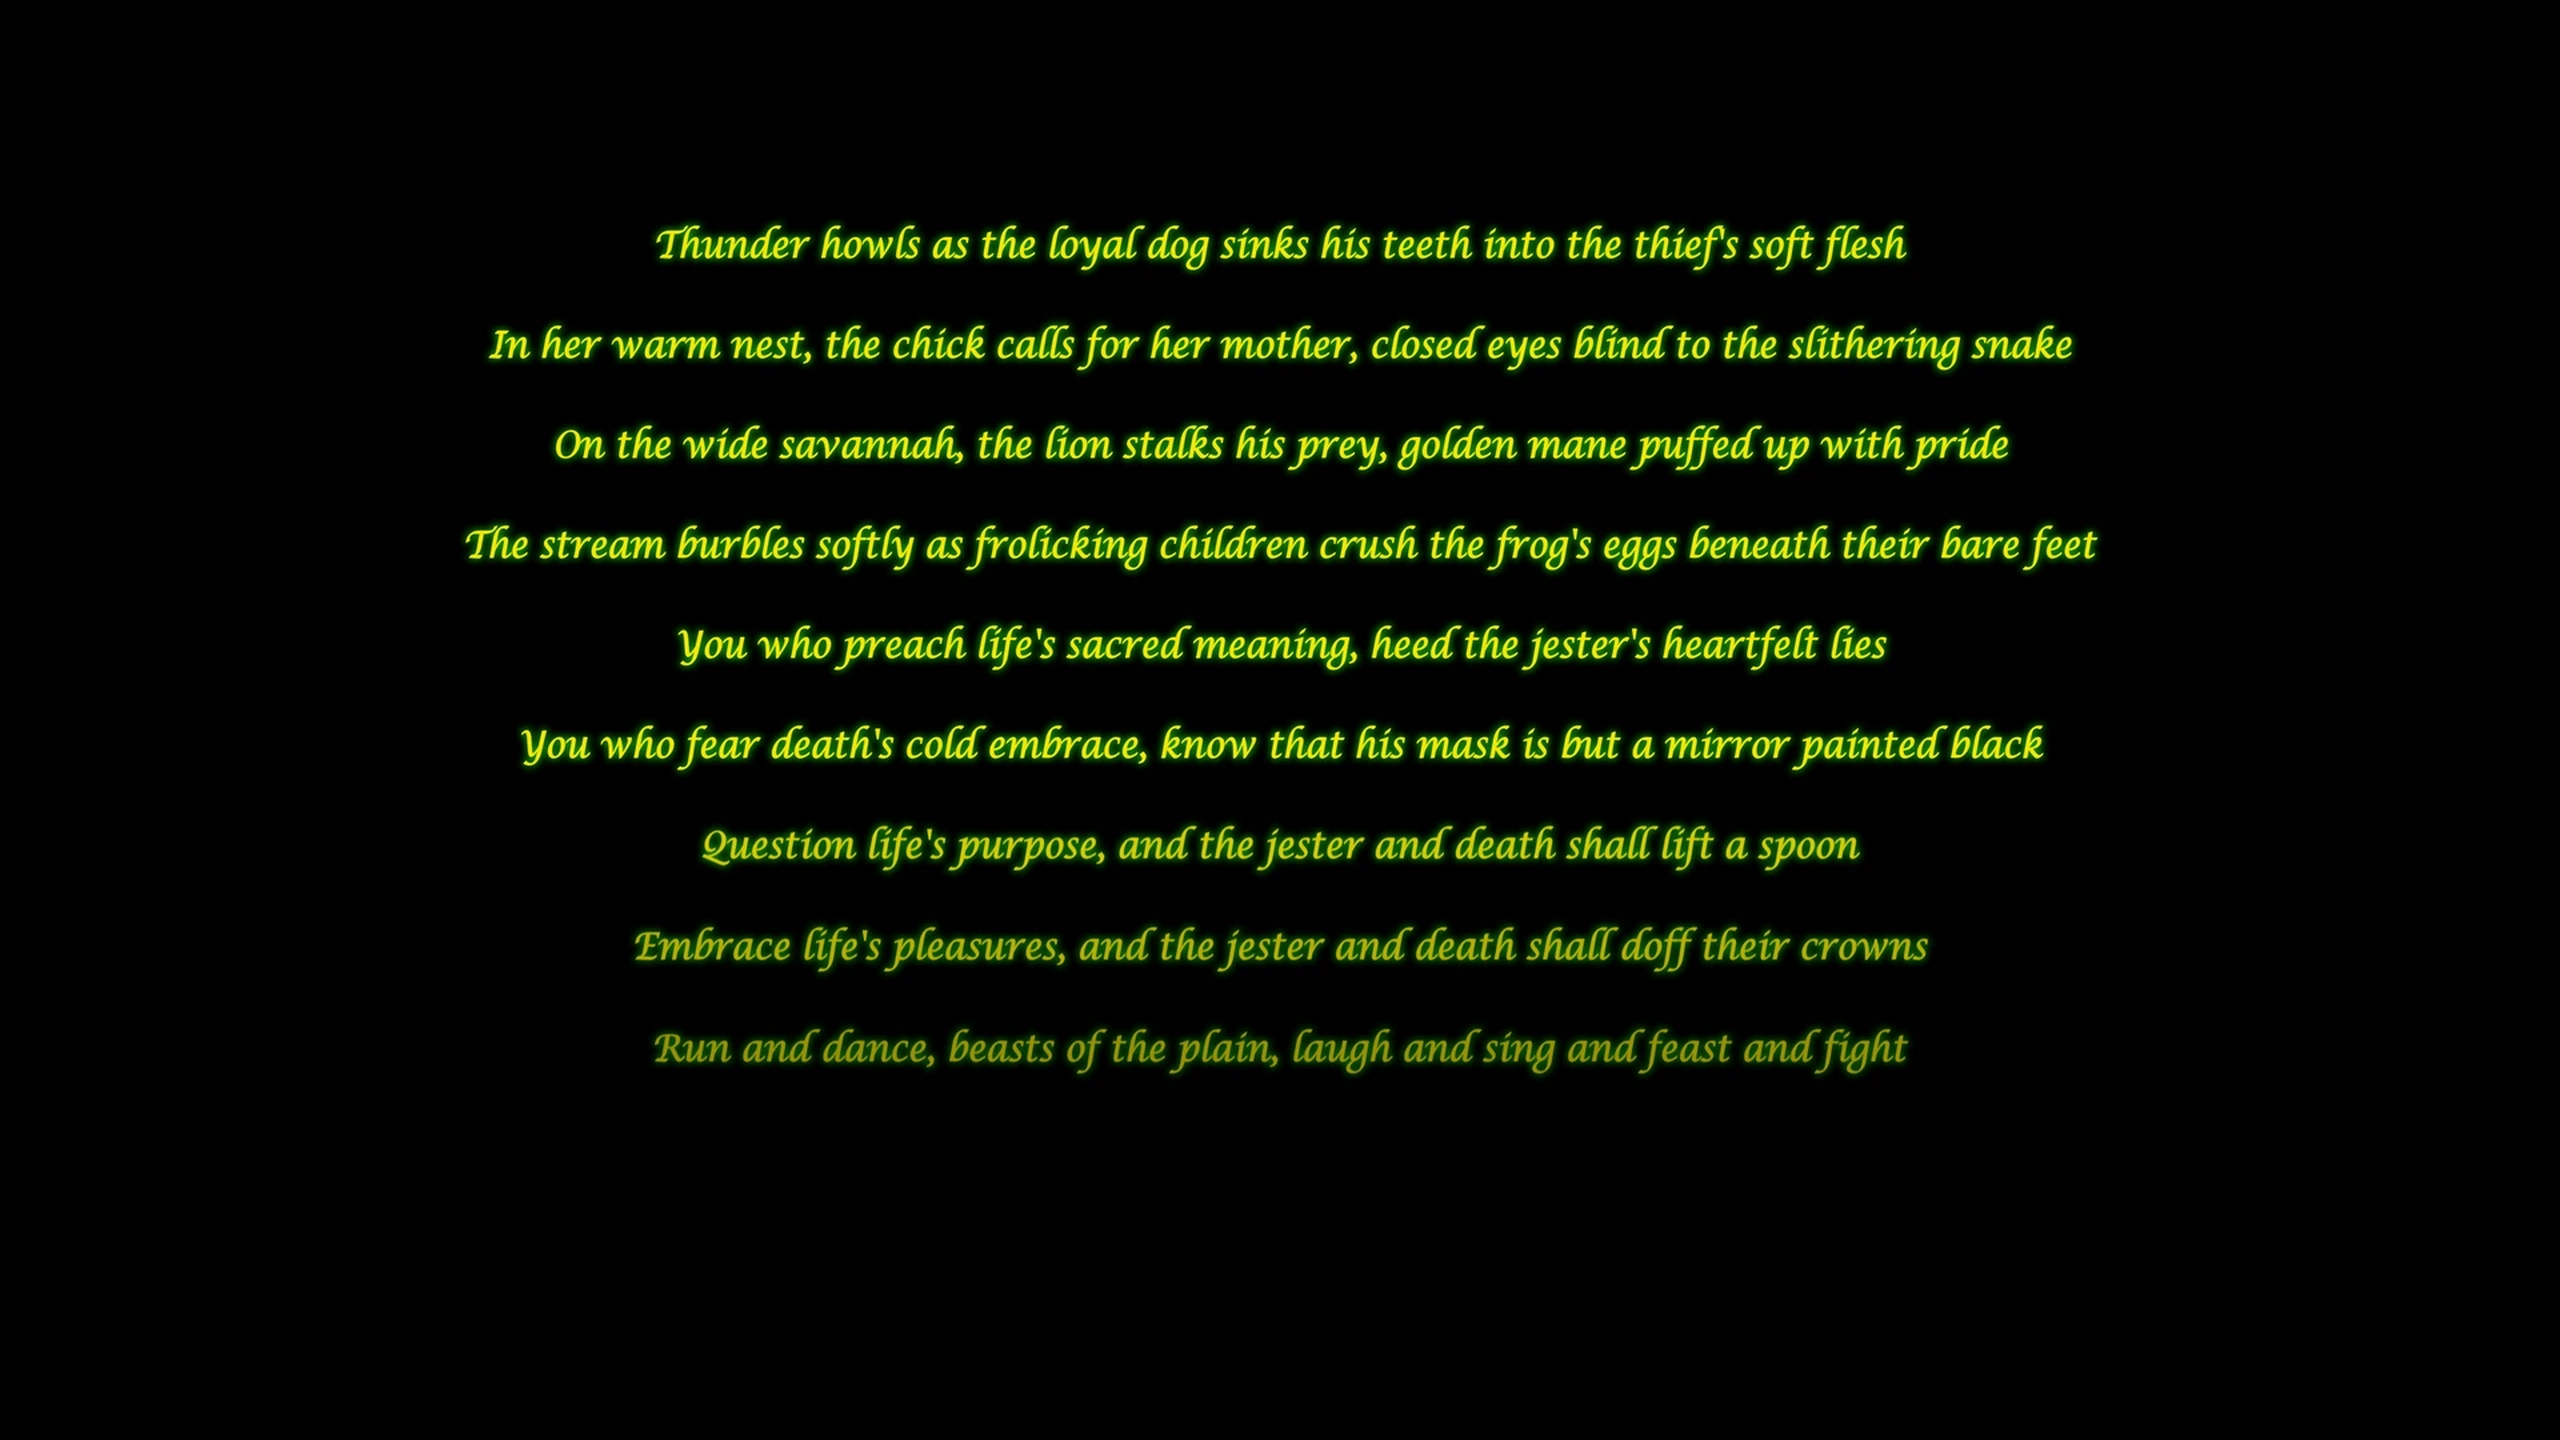
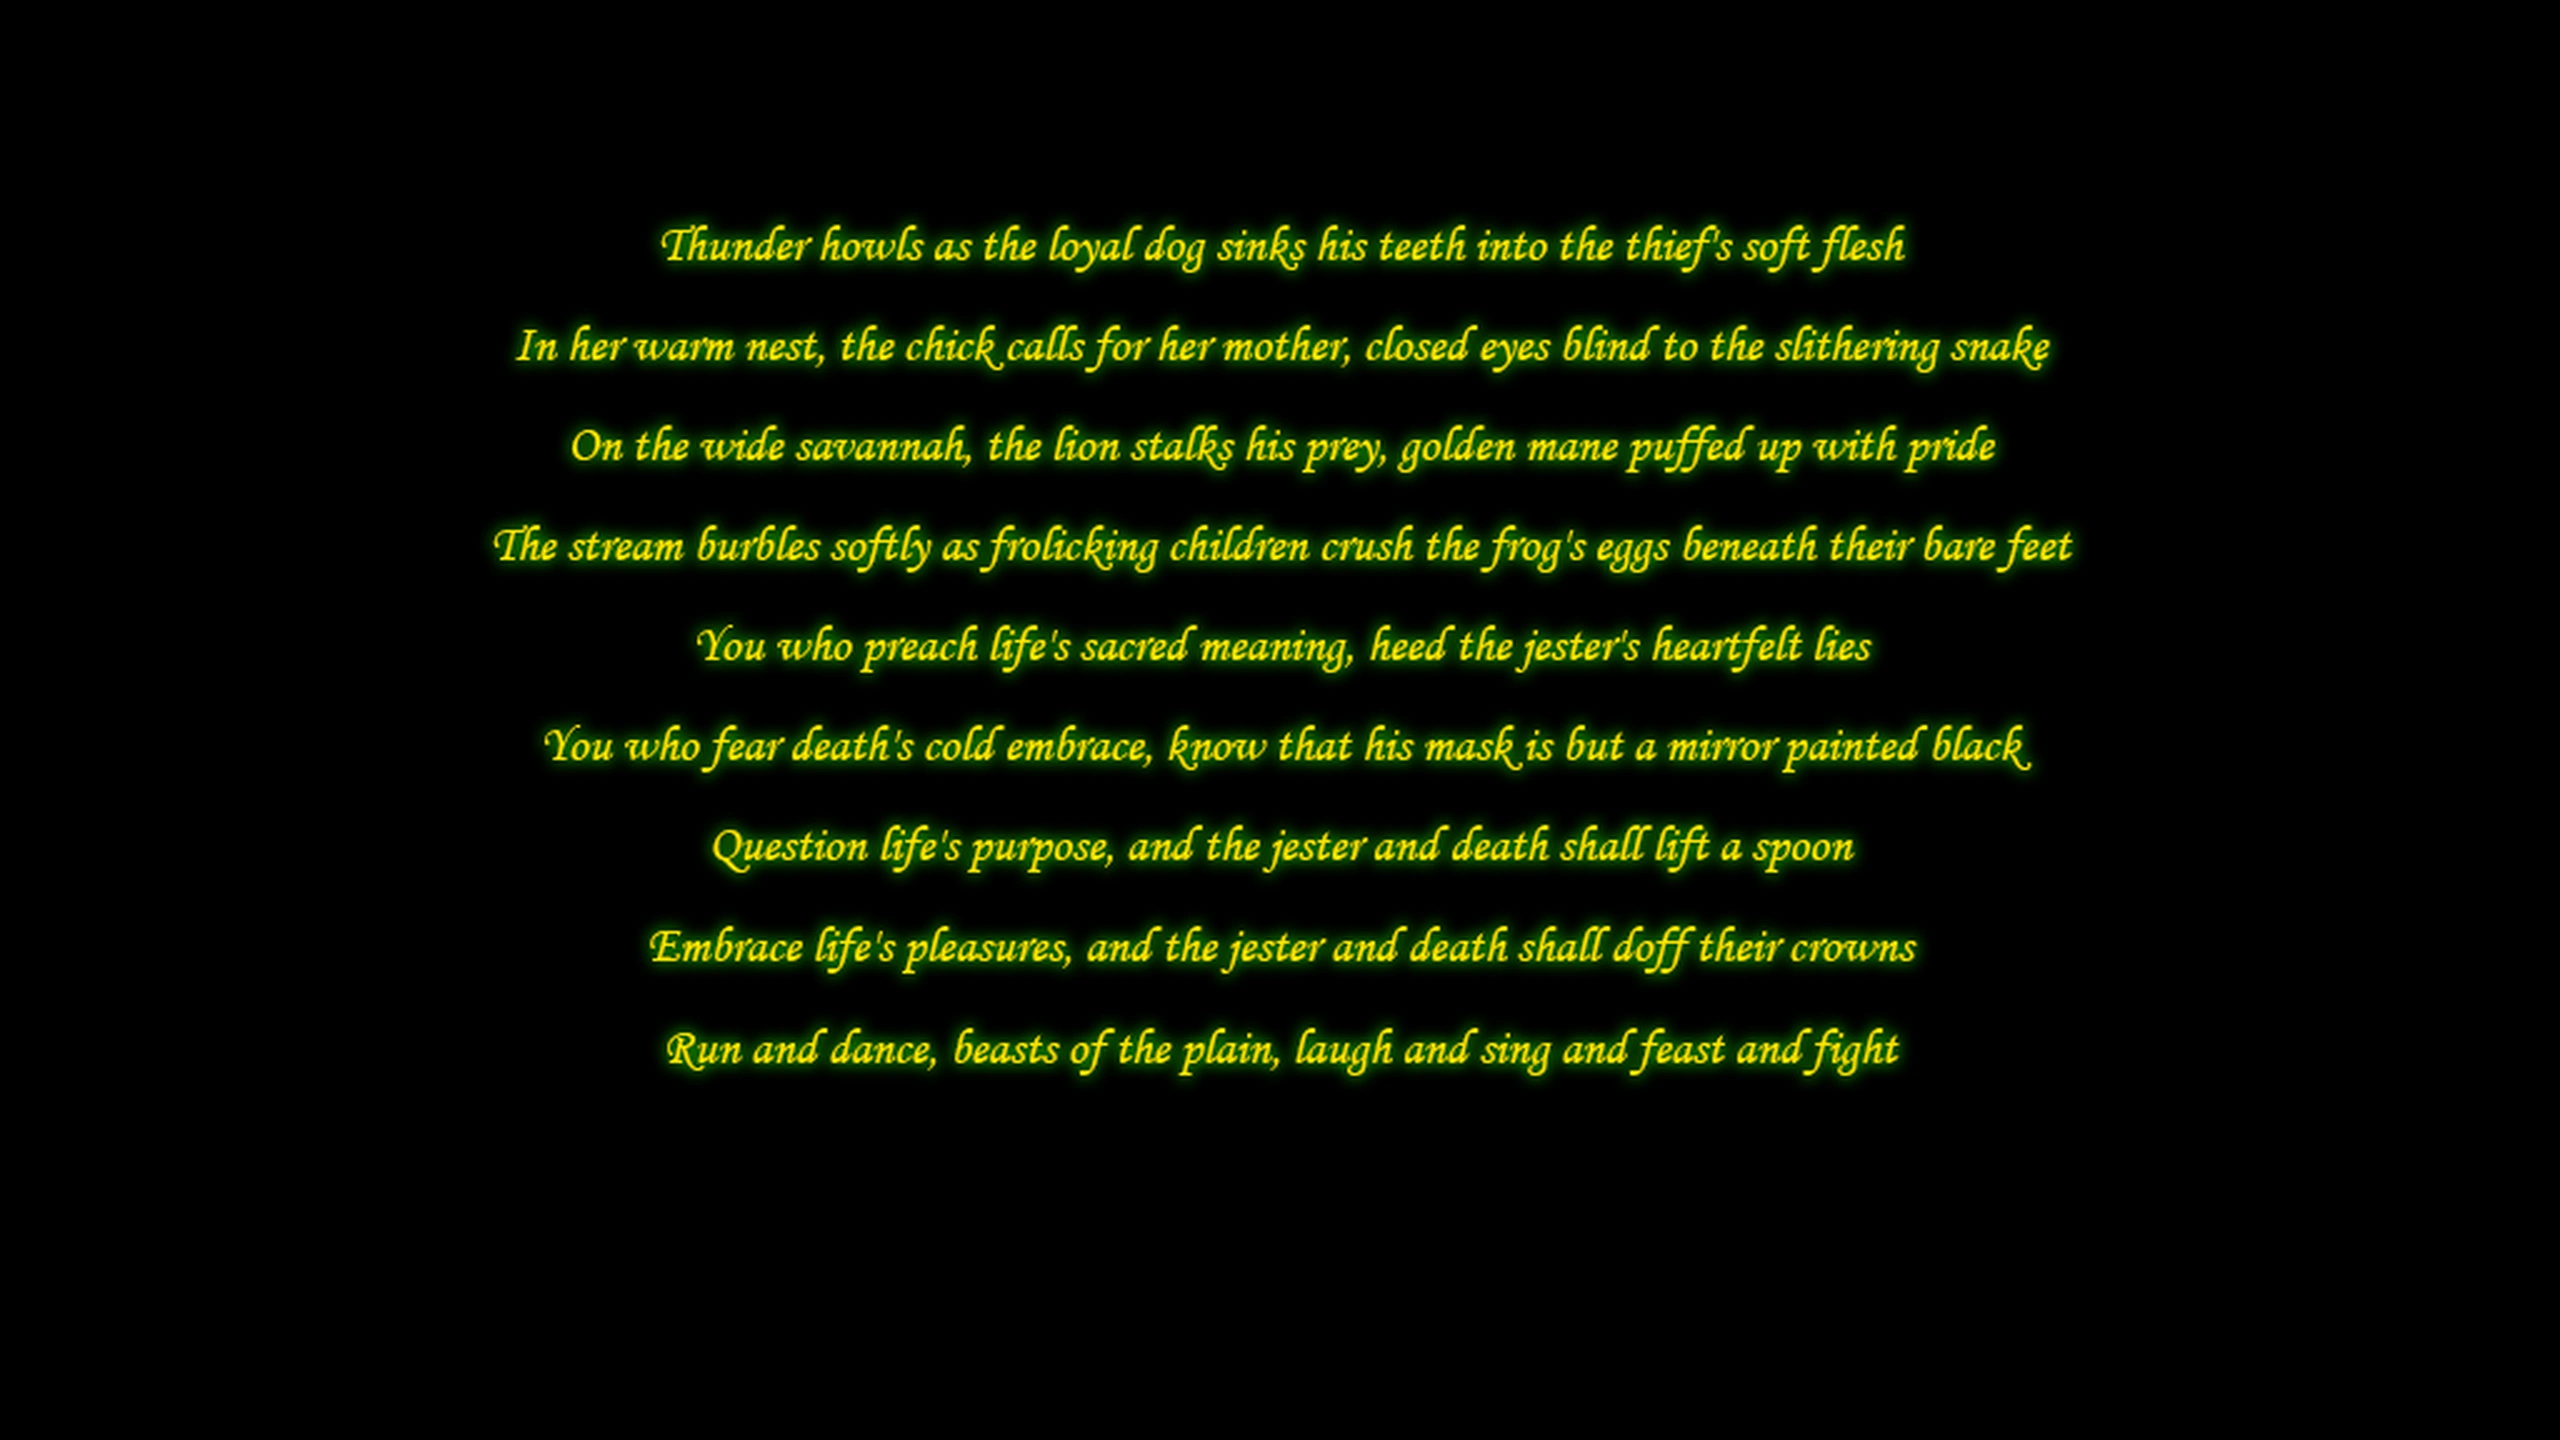
fix(poem,ui): revert Ginseigou green poem to polished original glyphs + glow; keep tab titles only

Changed region(s): [[0.1875, 0.2188, 0.8438, 0.4688], [0.1875, 0.5, 0.8125, 0.75], [0.25, 0.1562, 0.75, 0.1875]]

diff --git a/showcase.html b/showcase.html
@@ -96,8 +96,8 @@
     .tab-btn strong {
       display: block;
       color: var(--text);
-      font-size: 0.95rem;
-      margin-bottom: 2px;
+      font-size: 0.92rem;
+      margin-bottom: 0;
     }
     .tab-btn.active {
       border-color: var(--crimson);
@@ -305,20 +305,20 @@
 
   <script>
     const scenes = [
-      { id: '01_armor',           type: 'image', title: '01. Tsurugi Armor CG',      desc: 'Crisp metallic grain, hammered iron & gold edge detail' },
-      { id: '02_park',            type: 'image', title: '02. Overcast Park BG',      desc: 'Sharp foliage, lamppost silhouette & water reflections' },
-      { id: '03_study',           type: 'image', title: "03. Professor's Study",     desc: 'Bookshelves, woodgrain & fine shadow lines' },
-      { id: '04_evcg',            type: 'image', title: '04. Event CG',              desc: 'Clean line art & 2.5x shading detail' },
-      { id: '05_ui',              type: 'image', title: '05. In-Game UI Menu',       desc: 'Razor-sharp settings parchment, sliders & UI labels' },
-      { id: '06_text',            type: 'image', title: '06. HD Font & Text',        desc: 'Crisp 2K typography vs original stock text rendering' },
-      { id: '07_muramasa_sprite', type: 'image', title: '07. Sansei Muramasa',       desc: 'Character sprite outfit weave, hair highlights & jewelry' },
-      { id: '08_ichijo_sprite',   type: 'image', title: '08. Ayane Ichijo',          desc: 'Crimson Kote gauntlet rivets, uniform & razor-sharp linework' },
-      { id: '09_burning_field',   type: 'image', title: '09. Burning Battlefield',   desc: 'Silver vs Crimson clash, embers & smoky horizon clarity' },
-      { id: '10_crimson_visor',   type: 'image', title: '10. Crimson Armor Visor',   desc: 'Brushed steel scratches & glowing crimson visor gradient' },
-      { id: '11_tea_party',       type: 'image', title: '11. Circuit Tea Party',     desc: 'Crisp character faces, glass highlights & background Tsurugi' },
-      { id: '12_story_text',      type: 'image', title: '12. In-Game Story Text',    desc: 'Crisp DirectX 11 dialogue font vs blurry stock rendering (try 2x/3x zoom!)' },
-      { id: '13_green_poem',      type: 'image', title: '13. Prologue Green Poem',   desc: 'Razor-sharp green prologue text glyphs & crisp drop shadow' },
-      { id: 'mvop',               type: 'video', title: '14. Opening Movie (Video)', desc: 'Live synchronized Original WMV vs 2K HD OP with interactive slider' },
+      { id: '01_armor',           type: 'image', title: '01. Tsurugi Armor CG' },
+      { id: '02_park',            type: 'image', title: '02. Overcast Park BG' },
+      { id: '03_study',           type: 'image', title: "03. Professor's Study" },
+      { id: '04_evcg',            type: 'image', title: '04. Event CG' },
+      { id: '05_ui',              type: 'image', title: '05. In-Game UI Menu' },
+      { id: '06_text',            type: 'image', title: '06. HD Font & Text' },
+      { id: '07_muramasa_sprite', type: 'image', title: '07. Sansei Muramasa' },
+      { id: '08_ichijo_sprite',   type: 'image', title: '08. Ayane Ichijo' },
+      { id: '09_burning_field',   type: 'image', title: '09. Burning Battlefield' },
+      { id: '10_crimson_visor',   type: 'image', title: '10. Crimson Armor Visor' },
+      { id: '11_tea_party',       type: 'image', title: '11. Circuit Tea Party' },
+      { id: '12_story_text',      type: 'image', title: '12. In-Game Story Text' },
+      { id: '13_green_poem',      type: 'image', title: '13. Prologue Green Poem' },
+      { id: 'mvop',               type: 'video', title: '14. Opening Movie (Video)' },
     ];
 
     const tabsEl = document.getElementById('scene-tabs');
@@ -447,7 +447,9 @@
     function selectScene(scene) {
       document.querySelectorAll('.tab-btn').forEach(b => b.classList.toggle('active', b.dataset.id === scene.id));
       activeType = scene.type || 'image';
-      caption.textContent = scene.desc;
+      caption.textContent = activeType === 'video'
+        ? 'Drag the slider left/right while playing to compare Original vs 2K HD.'
+        : 'Drag slider or scroll wheel to zoom (drag image to pan when zoomed).';
       setZoom(1);
       zoomControls.classList.toggle('is-hidden', activeType === 'video');
 
@@ -507,7 +509,7 @@
       const btn = document.createElement('button');
       btn.className = 'tab-btn' + (idx === 0 ? ' active' : '');
       btn.dataset.id = sc.id;
-      btn.innerHTML = `<strong>${sc.title}</strong>${sc.desc}`;
+      btn.innerHTML = `<strong>${sc.title}</strong>`;
       btn.addEventListener('click', () => selectScene(sc));
       tabsEl.appendChild(btn);
     });
